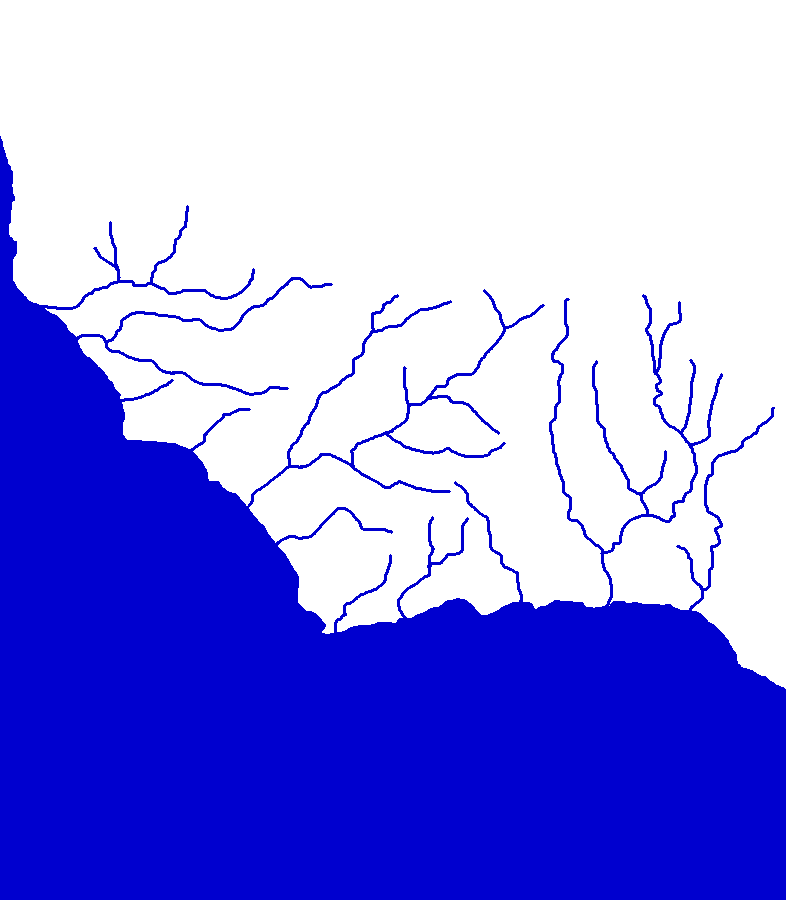
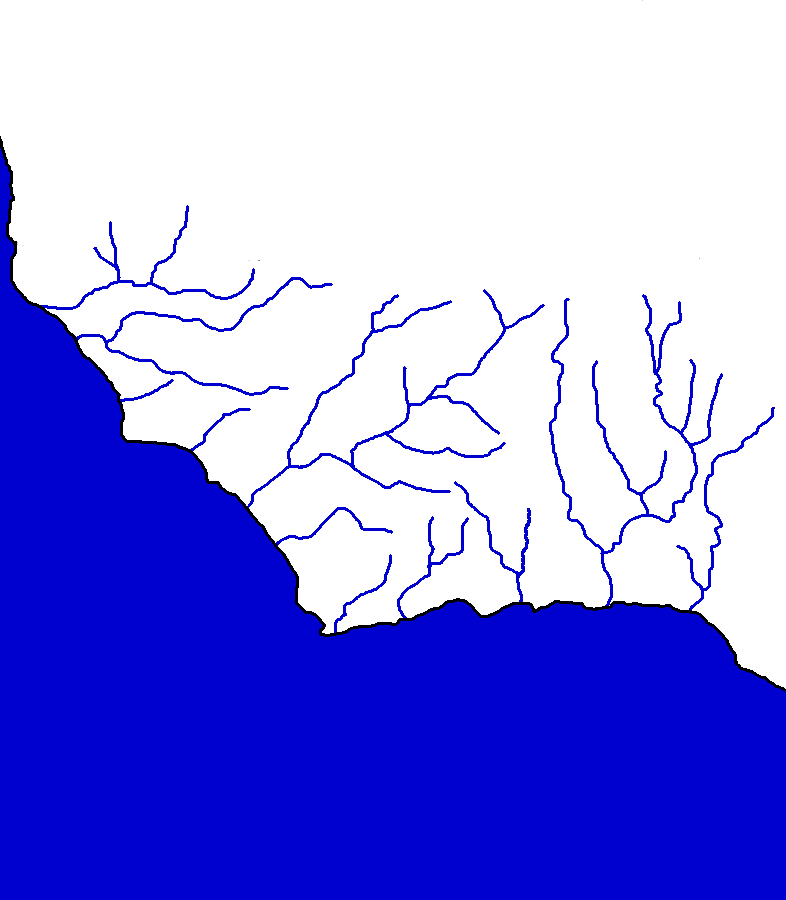
Se corrigieron detalles y se dejo pronto el depto. de Colonia

diff --git a/conozco-uruguay.activity/conozcouy.py b/conozco-uruguay.activity/conozcouy.py
@@ -1,6 +1,6 @@
 #! /usr/bin/env python
 # Conozco Uruguay
-# Copyright (C) 2008,2009 Gabriel Eirea
+# Copyright (C) 2008,2009,2010 Gabriel Eirea
 #
 # This program is free software: you can redistribute it and/or modify
 # it under the terms of the GNU General Public License as published by
@@ -19,10 +19,14 @@
 # Gabriel Eirea geirea@gmail.com
 # Ceibal Jam http://ceibaljam.org
 
-import sys, pygame, random, os
+import sys
+import random
+import os
+import pygame
 import olpcgames
 import gtk
 
+# constantes
 RADIO = 10
 RADIO2 = RADIO**2
 XMAPAMAX = 786
@@ -101,7 +105,7 @@ class Punto():
     def estaAca(self,pos):
         """Devuelve un booleano indicando si esta en la coordenada pos,
         la precision viene dada por la constante global RADIO"""
-        if (pos[0]-self.posicion[0])**2+\
+        if (pos[0]-self.posicion[0])**2 + \
                 (pos[1]-self.posicion[1])**2 < RADIO2:
             return True
         else:
@@ -109,7 +113,7 @@ class Punto():
 
     def dibujar(self,pantalla,flipAhora):
         """Dibuja un punto en su posicion"""
-        pantalla.blit(self.simbolo, (self.posicion[0]-8,self.posicion[1]-8))
+        pantalla.blit(self.simbolo, (self.posicion[0]-8, self.posicion[1]-8))
         if flipAhora:
             pygame.display.flip()
 
@@ -117,7 +121,7 @@ class Punto():
         """Escribe el nombre del punto en su posicion"""
         text = fuente.render(self.nombre, 1, color)
         textrect = text.get_rect()
-        textrect.center = (self.postexto[0],self.postexto[1])
+        textrect.center = (self.postexto[0], self.postexto[1])
         pantalla.blit(text, textrect)
 	if flipAhora:
             pygame.display.flip()
@@ -153,9 +157,9 @@ class Zona():
     def mostrarNombre(self,pantalla,fuente,color,flipAhora):
         """Escribe el nombre de la zona en su posicion"""
         text = fuente.render(self.nombre, 1, color)
-        textrot = pygame.transform.rotate(text,self.rotacion)
+        textrot = pygame.transform.rotate(text, self.rotacion)
         textrect = textrot.get_rect()
-        textrect.center = (self.posicion[0],self.posicion[1])
+        textrect.center = (self.posicion[0], self.posicion[1])
         pantalla.blit(textrot, textrect)
 	if flipAhora:
             pygame.display.flip()
@@ -481,7 +485,7 @@ class ConozcoUy():
                     pygame.display.flip()
 
     def pantallaInicial(self):
-        """Pantalla con el menu principal del juego."""
+        """Pantalla con el menu principal del juego"""
         global scale, shift_x, shift_y
         self.pantalla.fill((0,0,0))
         self.mostrarTexto("Conozco Uruguay",
@@ -583,7 +587,7 @@ class ConozcoUy():
                     pygame.display.flip()
 
     def pantallaDirectorios(self):
-        """Pantalla con el menu de directorios."""
+        """Pantalla con el menu de directorios"""
         global scale, shift_x, shift_y
         self.pantalla.fill((0,0,0))
         self.mostrarTexto("Conozco Uruguay",
@@ -634,7 +638,8 @@ class ConozcoUy():
                 terminar = False
                 while not terminar:
                     self.pantalla.fill((20,20,20),
-                                       (int(610*scale+shift_x),yLista-int(24*scale),
+                                       (int(610*scale+shift_x),
+                                        yLista-int(24*scale),
                                         int(590*scale),int(48*scale)))
                     self.mostrarTexto(self.listaNombreDirectorios[indiceDir],
                                       self.fuente40,
@@ -647,7 +652,8 @@ class ConozcoUy():
                         terminar = True
                 if indiceDir == paginaDirectorios * 20 + 20:
                     self.pantalla.fill((20,20,20),
-                                       (int(610*scale+shift_x),yLista-int(24*scale),
+                                       (int(610*scale+shift_x),
+                                        yLista-int(24*scale),
                                         int(590*scale),int(48*scale)))
                     if indiceDir < nDirectorios:
                         self.mostrarTexto("Pagina siguiente >>>",
@@ -855,12 +861,12 @@ class ConozcoUy():
             "XXX....XXX         XXX.......XXX",
             "XXX....XXX          XXX......XXX",
             "XXX....XXX           XXX.....XXX",
-            "XXX....XXX            XXX....XXX",
-            "XXXX..XXXX             XXXXXXXX ",
-            " XXXXXXX                XXXXXX  ",
-            "  XXXXX                  XXXX   ")
-        cursor= pygame.cursors.compile(datos_cursor)
-        pygame.mouse.set_cursor((32,32),(1,1),*cursor)
+            "XXX....XXX            XXX...XXXX",
+            " XXX..XXX              XXXXXXXX ",
+            "  XXXXXX                XXXXXX  ",
+            "   XXXX                  XXXX   ")
+        cursor = pygame.cursors.compile(datos_cursor)
+        pygame.mouse.set_cursor((32,32), (1,1), *cursor)
 
     def cargarDirectorio(self):
         """Carga la informacion especifica de un directorio"""
